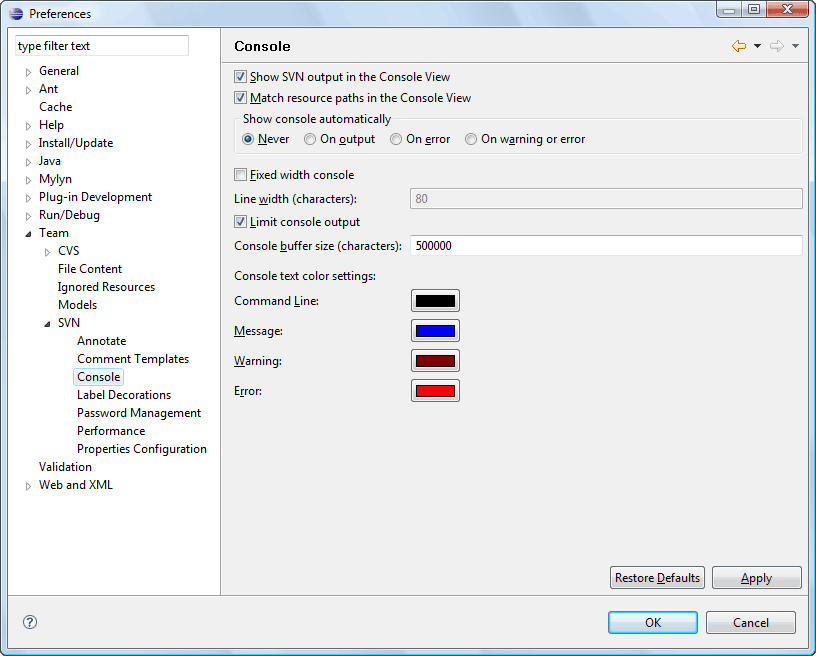
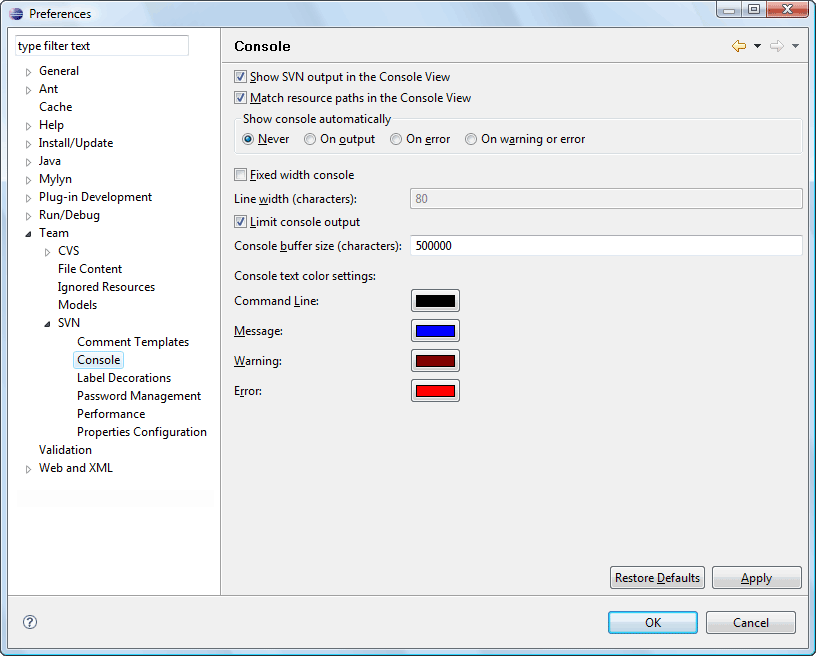
Update help according to plug-in changes (bug 225568) https://bugs.eclipse.org/bugs/show_bug.cgi?id=225568
The back slash is not supported in combined URLs (bug 228394)
https://bugs.eclipse.org/bugs/show_bug.cgi?id=228394

git-svn-id: https://dev.eclipse.org/svnroot/technology/org.eclipse.subversive/trunk@15476 ee007c2a-0a25-0410-9ab9-bf268980928c

Changed region(s): [[0.0306, 0.5183, 0.2451, 0.7622]]

diff --git a/org.eclipse.team.svn.help/index.html b/org.eclipse.team.svn.help/index.html
@@ -47,7 +47,6 @@
 		<li><a href="prefs.html">Preferences</a>
 		<ul>
 		<li><a href="preferences/pref_svn.html">SVN</a></li>
-		<li><a href="preferences/pref_annotate.html">Annotate</a></li>
 		<li><a href="preferences/pref_comments.html">Comment Templates</a></li>
 		<li><a href="preferences/pref_console.html">Console</a></li>
 		<li><a href="preferences/pref_label_decors.html">Label Decorations</a></li>
@@ -72,7 +71,6 @@
 		<li><a href="teamSupport/merge_dialog.html">SVN Merge Dialog</a></li>
 		<li><a href="teamSupport/props_view.html">SVN Properties View</a></li>
 
-		<li><a href="teamSupport/annotation_view.html">SVN Annotation View</a></li>
 		<li><a href="teamSupport/svn_info.html">SVN Info</a></li>
 		<li><a href="teamSupport/svn_toolbar.html">SVN Toolbar</a></li>
 		<li><a href="teamSupport/svn_label_decor.html">SVN Label Decorations</a></li>

diff --git a/org.eclipse.team.svn.help/teamSupport.html b/org.eclipse.team.svn.help/teamSupport.html
@@ -114,8 +114,6 @@
 		<br/>
 		<a href="teamSupport/props_view.html">SVN Properties View</a>
 		<br/>
-		<a href="teamSupport/annotation_view.html">SVN Annotation View</a>
-		<br/>
 		<a href="teamSupport/svn_info.html">SVN Info</a>
 		<br/>
 		<a href="teamSupport/svn_toolbar.html">SVN Toolbar</a>

diff --git a/org.eclipse.team.svn.help/prefs.html b/org.eclipse.team.svn.help/prefs.html
@@ -31,8 +31,6 @@
 		<br/>
 		<a href="preferences/pref_svn.html">SVN</a>
 		<br/>
-		<a href="preferences/pref_annotate.html">Annotate</a>
-		<br/>
 		<a href="preferences/pref_comments.html">Comment Templates</a>
 		<br/>
 		<a href="preferences/pref_console.html">Console</a>

diff --git a/org.eclipse.team.svn.core/src/org/eclipse/team/svn/core/svnstorage/SVNRepositoryResource.java b/org.eclipse.team.svn.core/src/org/eclipse/team/svn/core/svnstorage/SVNRepositoryResource.java
@@ -22,6 +22,7 @@ import org.eclipse.team.svn.core.resource.IRepositoryFile;
 import org.eclipse.team.svn.core.resource.IRepositoryLocation;
 import org.eclipse.team.svn.core.resource.IRepositoryResource;
 import org.eclipse.team.svn.core.resource.IRepositoryRoot;
+import org.eclipse.team.svn.core.utility.SVNUtility;
 
 /**
  * SVN based representation of IRepositoryResource
@@ -122,7 +123,7 @@ public abstract class SVNRepositoryResource extends SVNRepositoryBase implements
 	}
 
 	public IRepositoryResource getParent() {
-		String parentUrl = this.getUrl();
+		String parentUrl = SVNUtility.normalizeURL(this.getUrl());
 		int idx = parentUrl.lastIndexOf('/');
 		if (idx != -1) {
 			parentUrl = parentUrl.substring(0, idx);
